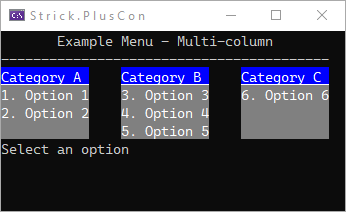
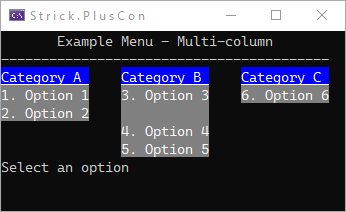
Doc/example updates

diff --git a/Strick.PlusCon.Test/Models/Examples/MenuExamples.cs b/Strick.PlusCon.Test/Models/Examples/MenuExamples.cs
@@ -183,24 +183,32 @@ internal static class MenuExamples
 		menu.ColumnCount = 3;
 		menu.GutterWidth = 4;
 
+		//"headers"
 		menu.Add(new MenuSeperator("Category A"));
 		menu.Options[^1].Style = CatStyle;
 		menu.Add(new MenuSeperator("Category B"));
 		menu.Options[^1].Style = CatStyle;
 		menu.Add(new MenuSeperator("Category C"));
 		menu.Options[^1].Style = CatStyle;
-
+		
+		//row 1
 		menu.Add(new MenuOption("Option 1", '1', ExampleMenuOption1));
 		menu.Add(new MenuOption("Option 3", '3', ExampleMenuOption1));
 		menu.Add(new MenuOption("Option 6", '6', ExampleMenuOption1));
 
+		//row 2
 		menu.Add(new MenuOption("Option 2", '2', ExampleMenuOption1));
+		menu.Add(new MenuSeperator(" "));
+		menu.Add(new MenuSeperator(""));
+
+		//row 3
+		menu.Add(new MenuSeperator(""));
 		menu.Add(new MenuOption("Option 4", '4', ExampleMenuOption1));
 		menu.Add(new MenuSeperator(""));
 
+		//row 4
 		menu.Add(new MenuSeperator(""));
 		menu.Add(new MenuOption("Option 5", '5', ExampleMenuOption1));
-		menu.Add(new MenuSeperator(""));
 
 		menu.Show();
 	}

diff --git a/docs/menu.md b/docs/menu.md
@@ -1,5 +1,5 @@
 ## `Menu`, `MenuOption` classes
-The `Menu` and `MenuOption` classes provide a way to create a simple menu structure for a console app. 
+The `Menu` and `MenuOption` classes provide a way to create a simple menu structure for a console app.
 
 A menu can have one or more `Options`, and optionally a `Title`, `Subtitle` and `Prompt`. 
 The titles show at the top of the menu, above the options. 
@@ -10,19 +10,25 @@ Horizontal alignment of the `Title` and `Subtitle` can be controlled using the `
 and `SubtitleAlignment` properties, respectively. The default for both is `HorizontalAlignment.Center`.
 
 There are three types of menu options:
-1. **Invokable Options**. Either invoke a submenu or an Action (a method that takes no arguments and returns no value). Use the `MenuOption` class.
+1. **Invokable Options**. Either invoke a submenu or an Action 
+(a method that takes no arguments and returns no value). Use the `MenuOption` class.
 2. **Separator Options**. Shows as an option with NO key. Use the `MenuSeperator` class. 
-Setting the `Caption` property to any single character (e.g. "-") will repeat that character for the width of the menu.
-3. **Exit Menu Options**. Exits the menu when selected/invoked by the user. Use the `MenuBackOption` class.
+Setting the `Caption` property to any single character (e.g. "-") will repeat that 
+character for the width of the menu (or column in a multi-column menu).
+3. **Exit Menu Options**. Exits the menu when selected/invoked by the user. 
+Use the `MenuBackOption` class.
 
-The user selects, or invokes, an option by pressing the "key" (typically a letter or digit) shown next to the option.
-Options can have multiple keys associated with them, but only the first key will be displayed on the menu.
+The user selects, or invokes, an option by pressing the "key" (typically a letter or digit) 
+shown next to the option.
+Options can have multiple keys associated with them, but only the first key will be displayed 
+on the menu.
 
 A menu can have multiple `ExitKeys` associated with it. An "Exit Key" is a key that will close the menu.
-The default `ExitKeys` for a menu are: *0 (the digit zero)*, *Space (" ")*, *Escape*, *Enter*, and *Backspace*. 
+The default `ExitKeys` for a menu are: *0 (the digit zero)*, *Space (" ")*, *Escape*, 
+*Enter*, and *Backspace*. 
 These can be overridden via the `ExitKeys` property.
 
-If a prompt is not desired, set the `Prompt` property to null (as opposed to setting Prompt.Text).
+If a prompt is not desired, set the `Prompt` property to null (as opposed to setting `Prompt.Text`).
 ```c#
 Menu myMenu = new("Example Menu");
 ...
@@ -36,16 +42,22 @@ myMenu.Prompt.Text = ""; //results in an exception
 ### Key collisions
 If an option in a menu's `Options` collection contains a key in its `Keys` collection that is also 
 contained in the menu's `ExitKeys` collection, the menu option takes precedent.
-If two (or more) options in the a menu's `Options` collection contain the same key in their `Keys` collection, 
-the option with the lowest index within the `Options` collection will take precedent.
+If two (or more) options in the a menu's `Options` collection contain the same key in their 
+`Keys` collection, the option with the lowest index within the `Options` collection 
+(i.e. the one added first) will take precedent.
 
 ### Multi-column
 A menu can have multiple columns. Use the `ColumnCount` property to set the number of 
-columns for a menu (the default is 1). The menu's options are shown in a row, column 
-order on a muti-column menu. Use the `GutterWidth` property to control the spacing 
-between columns (the default is 3).
+columns for a menu (the default is 1), and the `GutterWidth` property to control 
+the spacing between columns (the default is 3). 
+
+For multi-column menus, the options are shown in a **row, column order**. 
+Use `MenuSeperator` options to create "headers" and groupings to help keep larger 
+menus simply and intuitively organized.
 
 ## Examples
+### Example 1 - Basics
+
 ```c#
 Menu subMenu = new("Example Submenu");
 //lambda
@@ -92,6 +104,7 @@ private static void ExampleMenuOption2()
 ![Example - Menu 1 (main menu)](https://raw.githubusercontent.com/StrickTechnologies/Strick.PlusCon/master/SampleImages/ex_menu_1-1.png)
 ![Example - Menu 1 (sub menu)](https://raw.githubusercontent.com/StrickTechnologies/Strick.PlusCon/master/SampleImages/ex_menu_1-2.png)
 
+### Example 2 - Styling
 Colors for menu titles and menu options can easily be set. 
 At the menu level, both titles (`Title`, `Subtitle`) and `Prompt` have `Style` properties.
 The menu has an `OptionsStyle` property, which sets the style for ALL menu options.
@@ -158,7 +171,7 @@ private static void ExampleMenuOption2()
 ![Example - Menu 2 (main menu)](https://raw.githubusercontent.com/StrickTechnologies/Strick.PlusCon/master/SampleImages/ex_menu_2-1.png)
 ![Example - Menu 2 (sub menu)](https://raw.githubusercontent.com/StrickTechnologies/Strick.PlusCon/master/SampleImages/ex_menu_2-2.png)
 
-## Events
+### Example 3 - Events
 The `Menu` and `MenuOption` classes both have a `BeforeShow` event. As the name suggests, 
 the event is fired **before** the `Menu` or `MenuOption` is rendered. In the event handler 
 for `Menu`, you can manipulate any of the menu's properties or options. In the event handler 
@@ -238,7 +251,7 @@ private static void ExampleMenuOption2()
 ![Example - Menu 3-1](https://raw.githubusercontent.com/StrickTechnologies/Strick.PlusCon/master/SampleImages/ex_menu_3-1.png)
 ![Example - Menu 3-2](https://raw.githubusercontent.com/StrickTechnologies/Strick.PlusCon/master/SampleImages/ex_menu_3-2.png)
 
-## Multi-column
+### Example 4 - Multi-column
 ```c#
 TextStyle CatStyle = new TextStyle(Color.White, Color.Blue) { Underline = true };
 Menu menu = new Menu("Example Menu - Multi-column", "-");
@@ -246,24 +259,32 @@ menu.OptionsStyle = new TextStyle(Color.White, Color.Gray);
 menu.ColumnCount = 3;
 menu.GutterWidth = 4;
 
+//"headers"
 menu.Add(new MenuSeperator("Category A"));
 menu.Options[^1].Style = CatStyle;
 menu.Add(new MenuSeperator("Category B"));
 menu.Options[^1].Style = CatStyle;
 menu.Add(new MenuSeperator("Category C"));
 menu.Options[^1].Style = CatStyle;
-
+		
+//row 1
 menu.Add(new MenuOption("Option 1", '1', ExampleMenuOption1));
 menu.Add(new MenuOption("Option 3", '3', ExampleMenuOption1));
 menu.Add(new MenuOption("Option 6", '6', ExampleMenuOption1));
 
+//row 2
 menu.Add(new MenuOption("Option 2", '2', ExampleMenuOption1));
+menu.Add(new MenuSeperator(" "));
+menu.Add(new MenuSeperator(""));
+
+//row 3
+menu.Add(new MenuSeperator(""));
 menu.Add(new MenuOption("Option 4", '4', ExampleMenuOption1));
 menu.Add(new MenuSeperator(""));
 
+//row 4
 menu.Add(new MenuSeperator(""));
 menu.Add(new MenuOption("Option 5", '5', ExampleMenuOption1));
-menu.Add(new MenuSeperator(""));
 
 menu.Show();
 
